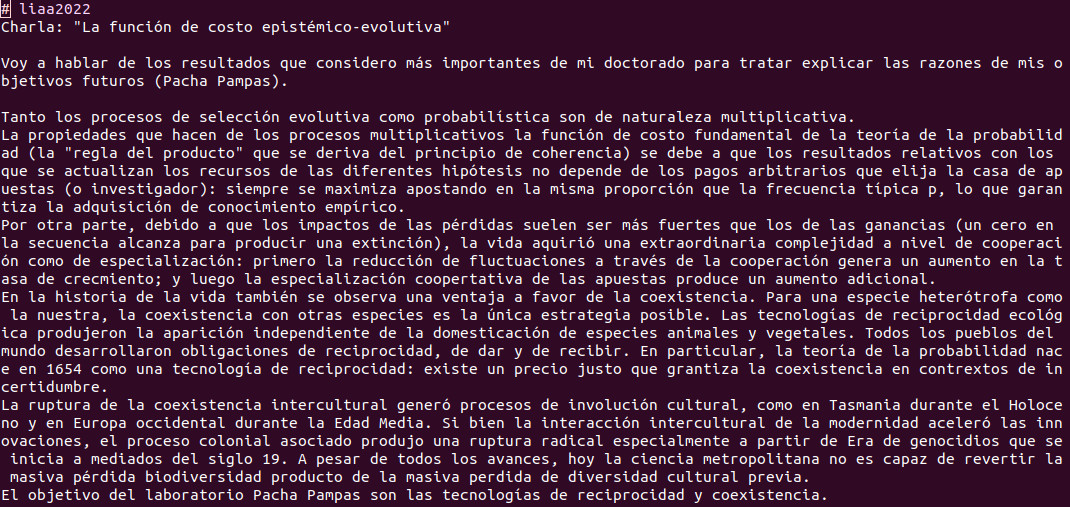
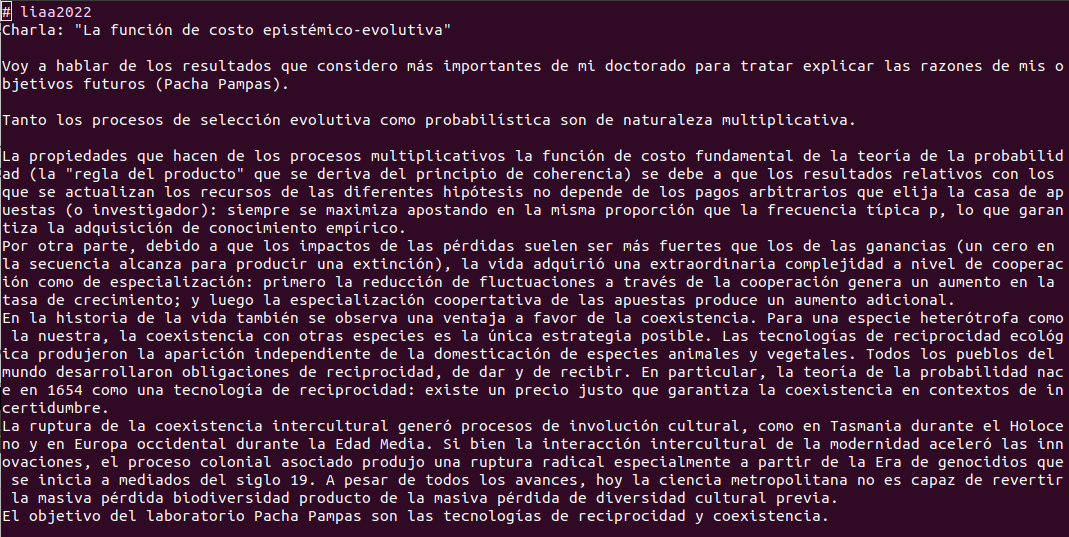
Resumen sin typos (como siempre typos)

diff --git a/README.md b/README.md
@@ -4,10 +4,11 @@ Charla: "La función de costo epistémico-evolutiva"
 Voy a hablar de los resultados que considero más importantes de mi doctorado para tratar explicar las razones de mis objetivos futuros (Pacha Pampas).
 
 Tanto los procesos de selección evolutiva como probabilística son de naturaleza multiplicativa.
+
 La propiedades que hacen de los procesos multiplicativos la función de costo fundamental de la teoría de la probabilidad (la "regla del producto" que se deriva del principio de coherencia) se debe a que los resultados relativos con los que se actualizan los recursos de las diferentes hipótesis no depende de los pagos arbitrarios que elija la casa de apuestas (o investigador): siempre se maximiza apostando en la misma proporción que la frecuencia típica p, lo que garantiza la adquisición de conocimiento empírico.
-Por otra parte, debido a que los impactos de las pérdidas suelen ser más fuertes que los de las ganancias (un cero en la secuencia alcanza para producir una extinción), la vida aquirió una extraordinaria complejidad a nivel de cooperación como de especialización: primero la reducción de fluctuaciones a través de la cooperación genera un aumento en la tasa de crecmiento; y luego la especialización coopertativa de las apuestas produce un aumento adicional.
-En la historia de la vida también se observa una ventaja a favor de la coexistencia. Para una especie heterótrofa como la nuestra, la coexistencia con otras especies es la única estrategia posible. Las tecnologías de reciprocidad ecológica produjeron la aparición independiente de la domesticación de especies animales y vegetales. Todos los pueblos del mundo desarrollaron obligaciones de reciprocidad, de dar y de recibir. En particular, la teoría de la probabilidad nace en 1654 como una tecnología de reciprocidad: existe un precio justo que grantiza la coexistencia en contrextos de incertidumbre.
-La ruptura de la coexistencia intercultural generó procesos de involución cultural, como en Tasmania durante el Holoceno y en Europa occidental durante la Edad Media. Si bien la interacción intercultural de la modernidad aceleró las innovaciones, el proceso colonial asociado produjo una ruptura radical especialmente a partir de Era de genocidios que se inicia a mediados del siglo 19. A pesar de todos los avances, hoy la ciencia metropolitana no es capaz de revertir la masiva pérdida biodiversidad producto de la masiva perdida de diversidad cultural previa.
+Por otra parte, debido a que los impactos de las pérdidas suelen ser más fuertes que los de las ganancias (un cero en la secuencia alcanza para producir una extinción), la vida adquirió una extraordinaria complejidad a nivel de cooperación como de especialización: primero la reducción de fluctuaciones a través de la cooperación genera un aumento en la tasa de crecimiento; y luego la especialización coopertativa de las apuestas produce un aumento adicional.
+En la historia de la vida también se observa una ventaja a favor de la coexistencia. Para una especie heterótrofa como la nuestra, la coexistencia con otras especies es la única estrategia posible. Las tecnologías de reciprocidad ecológica produjeron la aparición independiente de la domesticación de especies animales y vegetales. Todos los pueblos del mundo desarrollaron obligaciones de reciprocidad, de dar y de recibir. En particular, la teoría de la probabilidad nace en 1654 como una tecnología de reciprocidad: existe un precio justo que garantiza la coexistencia en contextos de incertidumbre.
+La ruptura de la coexistencia intercultural generó procesos de involución cultural, como en Tasmania durante el Holoceno y en Europa occidental durante la Edad Media. Si bien la interacción intercultural de la modernidad aceleró las innovaciones, el proceso colonial asociado produjo una ruptura radical especialmente a partir de la Era de genocidios que se inicia a mediados del siglo 19. A pesar de todos los avances, hoy la ciencia metropolitana no es capaz de revertir la masiva pérdida biodiversidad producto de la masiva pérdida de diversidad cultural previa.
 El objetivo del laboratorio Pacha Pampas son las tecnologías de reciprocidad y coexistencia.
 
 
